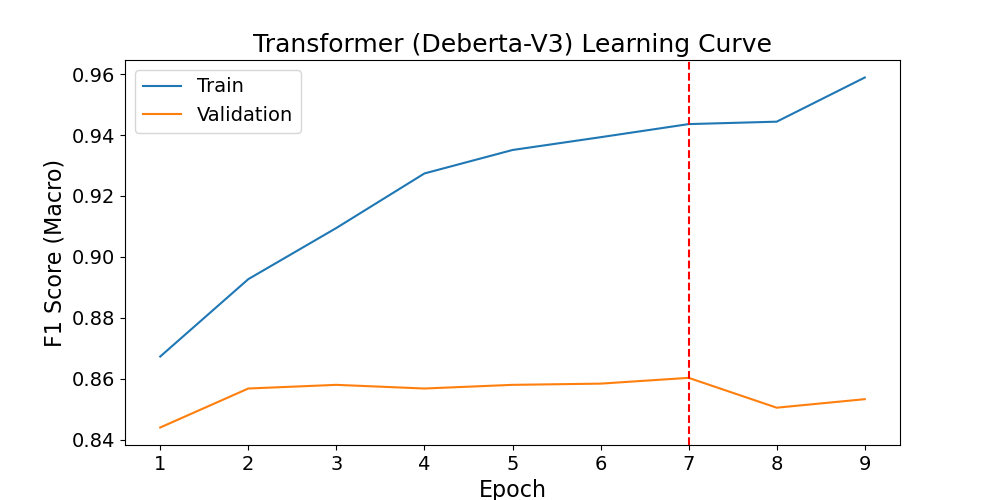
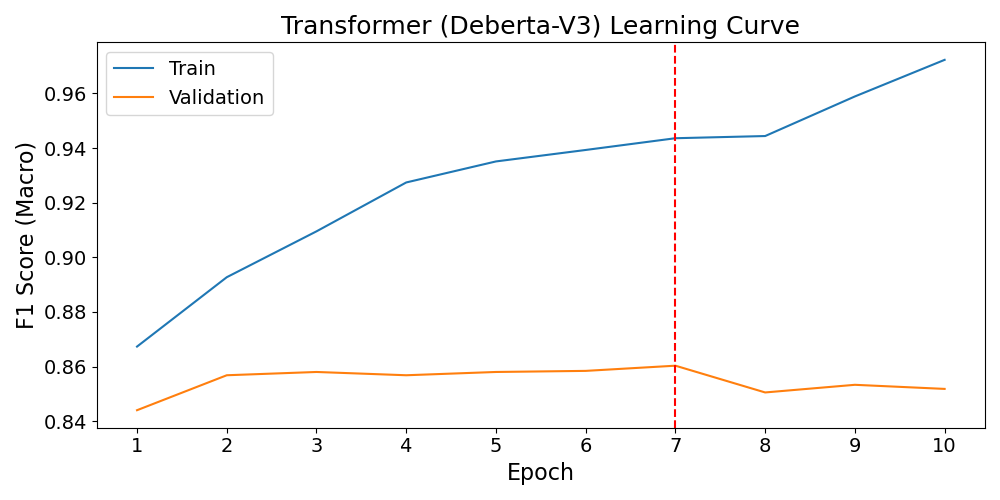
feat: learning curve up to 10 for pretrained Transformer

diff --git a/overleaf.tex b/overleaf.tex
@@ -76,9 +76,10 @@ To solve this task, multiple deep learning models with different architectures w
 If we can successfully train such a classification system, this system will help responders identify urgent information faster, remove distracting content, and allocate resources more effectively. Time-critical posts could assist 119 dispatchers and search-and-rescue teams, while support-and-relief posts could guide donation planning, shelter distribution, and medical supply delivery. In short, this would make real-time crisis information easier to use, which can directly impact human lives.
 
 \subsection{Dataset}
-%(5 points) What data did you use? Provide details about your data, specifically choose the most important aspects of your data mentioned \href{https://arxiv.org/abs/1803.09010}{here}. You don’t have to choose all of them, just the most relevant.
+% (5 points) What data did you use? Provide details about your data, specifically choose the most important aspects of your data mentioned here: Datasheets for Datasets (https://arxiv.org/abs/1803.09010). Note that you do not have to choose all of them, just the most relevant.
 
-This study uses the \textbf{CrisisBench} dataset~\cite{CrisisBenchPaper} which serves as a major benchmark for crisis classification research. As detailed in the original paper, the dataset comprises tweets collected from various crisis situations and classifies the information into 11 categories based on humanitarian needs. The data exhibits characteristics typical of social media text: it is short, informal, and noisy. It also contains misspellings, emojis, and non-standard language. Following the guidelines from \emph{Datasheets for Datasets}~\cite{DatasheetsPaper}, we document key aspects of the dataset (motivation, composition, collection process, recommended uses).
+The \textbf{CrisisBench} dataset has been used \cite{CrisisBenchPaper} which serves as a major benchmark for crisis classification research. As detailed in the original paper, the dataset comprises tweets collected from various crisis situations and classifies the information into 11 categories based on humanitarian needs. The data exhibits characteristics typical of social media text: it is short, informal, and noisy. It also contains misspellings, emojis, and non-standard language. 
+Following the guidelines from \emph{Datasheets for Datasets}~\cite{DatasheetsPaper}, we document key aspects of the dataset (motivation, composition, collection process, recommended uses).
 \subsubsection{Dataset Size}
 The CrisisBench dataset was constructed by consolidating eight pre-existing crisis-related Twitter datasets. The initial merge resulted in a total of \textbf{206,411 tweets} before any mapping or filtering was applied. After performing class-label harmonization and removing duplicates, the authors obtained:
 \begin{itemize}
